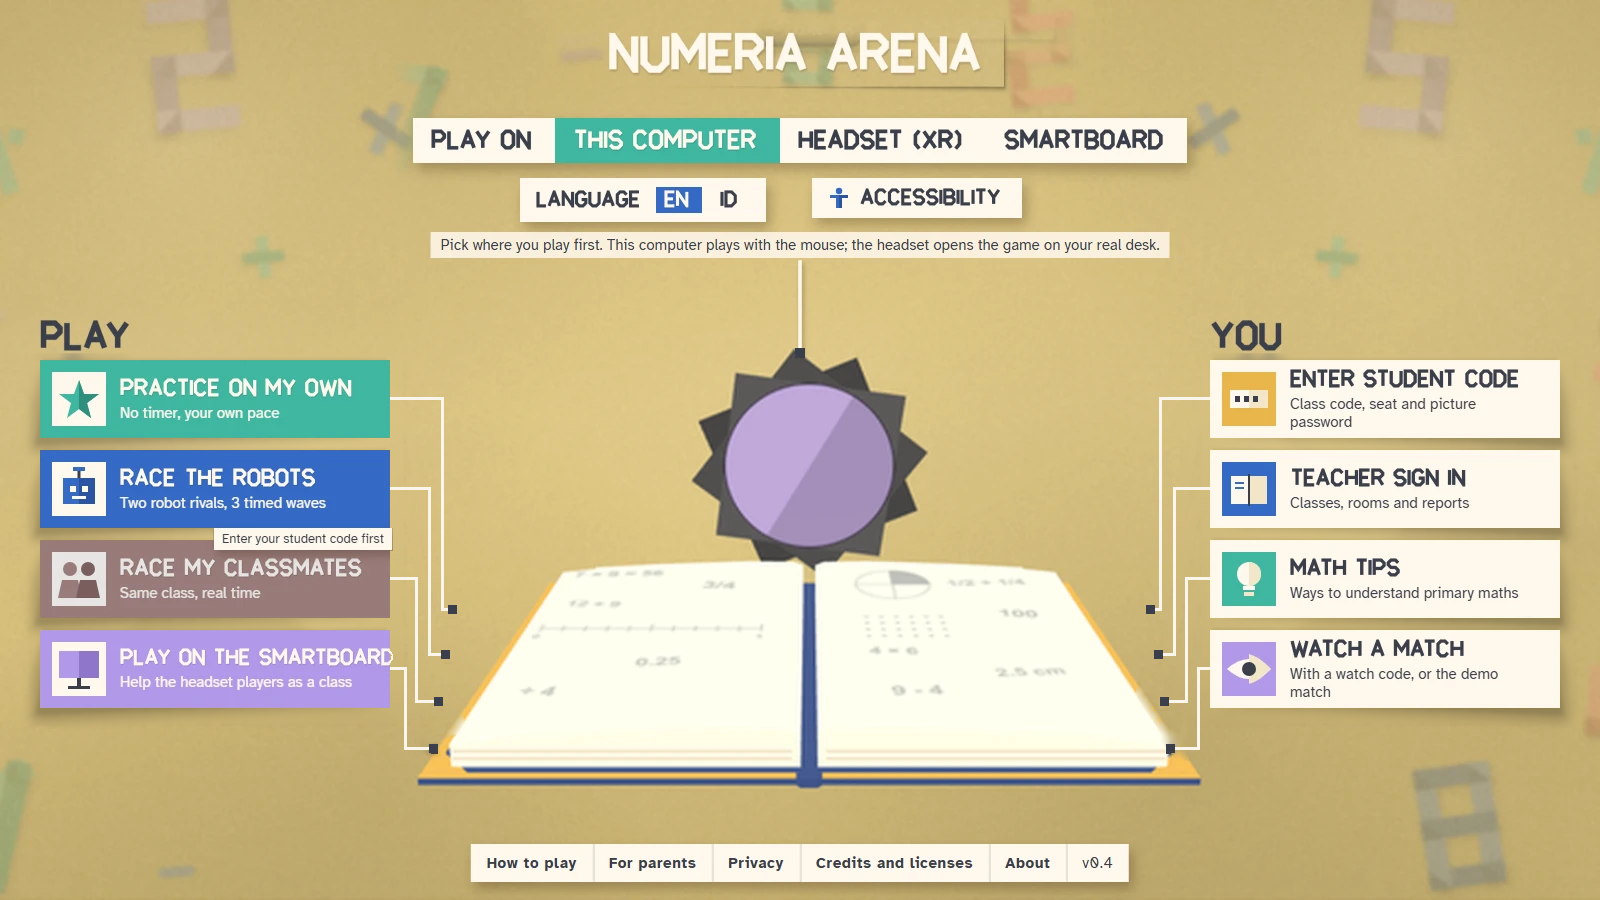
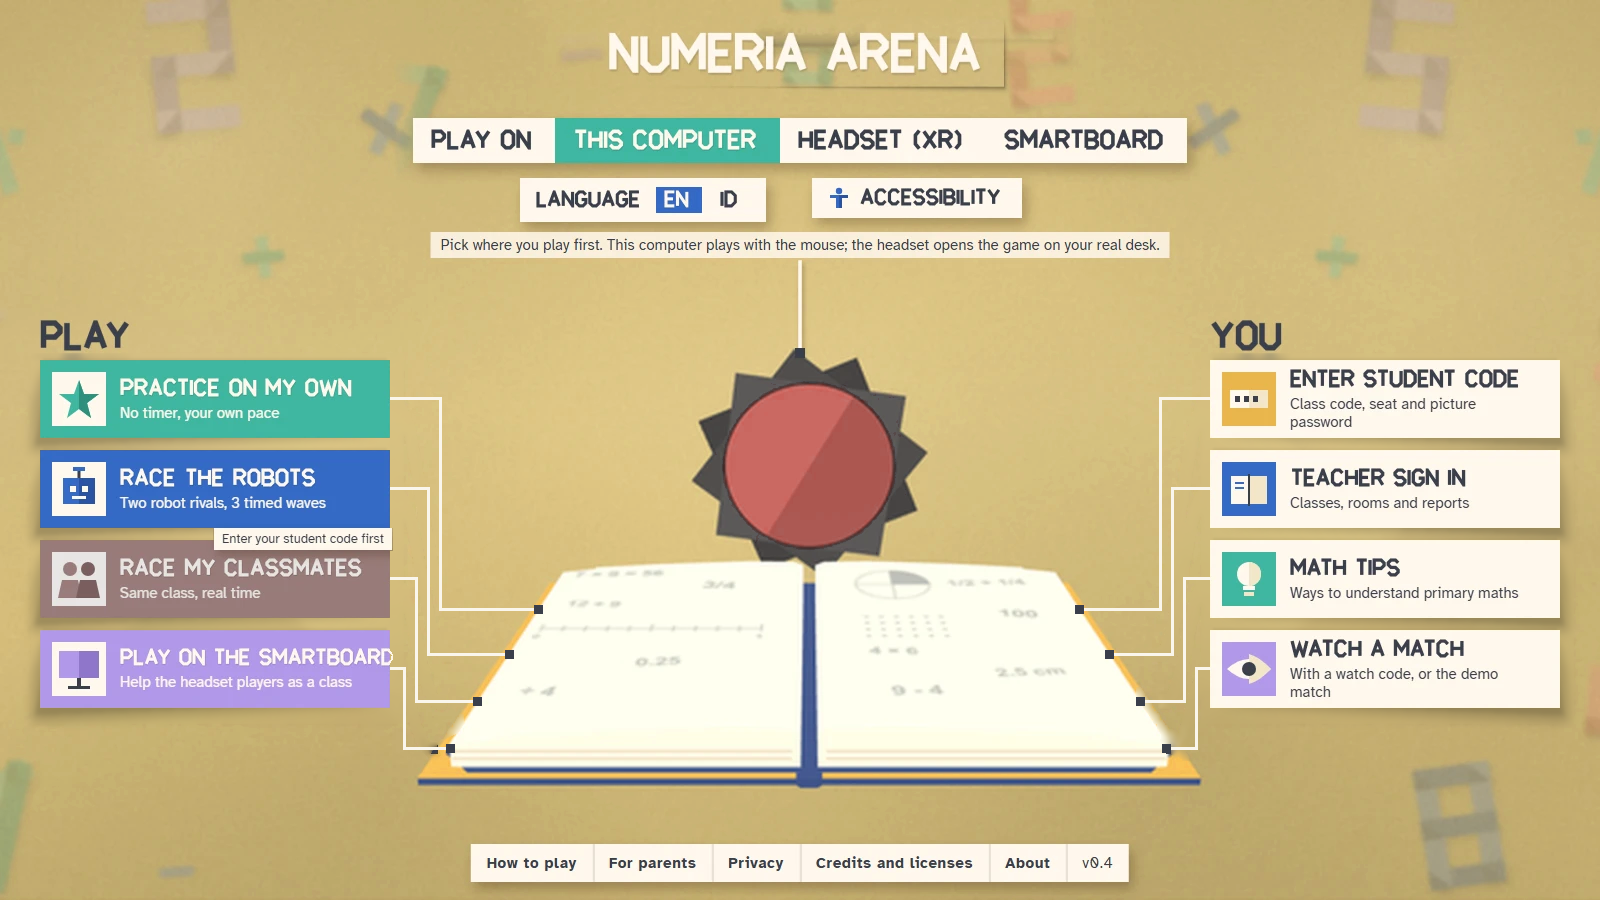
Menu mockup: soft red sun disc, lines run on to the book's page edge
The purple disc in the sun becomes a muted brick red with its two tones kept.
Every connector line now ends on the edge of the book's pages, found on the
cleaned image row by row.

Claude-Session: https://claude.ai/code/session_013EfMjs1ns7kt9VMgsDEbGC

diff --git a/scripts/tools/revise-menu.py b/scripts/tools/revise-menu.py
@@ -1,6 +1,8 @@
 # Revises a screenshot of the Numeria Arena main menu (1600x900):
 #  - the curved connector lines between the PLAY / YOU blocks and the book become straight lines
 #    with right-angle bends (no curves), ending on the same anchor squares at the book;
+#  - the lines run on to the edge of the book's pages and end there on an ink square;
+#  - the purple disc inside the sun turns a soft brick red (not glaring), keeping its two tones;
 #  - the blocks lose their all-round drop shadow and take the global sticker peel effect
 #    (style D, scripts/2d/menu.mjs): one side stays stuck down, the outer side lifts with a soft
 #    tinted shadow, the left side for the left group and the right side for the right group.
@@ -20,12 +22,23 @@ H, W = img.shape[:2]
 TOPS = [360, 450, 540, 630]
 LEFT = [(40, y, 389, y + 77) for y in TOPS]
 RIGHT = [(1210, y, 1559, y + 77) for y in TOPS]
-ANCHOR_L = [(452, 609), (445, 654), (438, 701), (433, 748)]
-ANCHOR_R = [(1150, 609), (1158, 654), (1164, 701), (1170, 748)]
+# heights where the lines meet the book (the old anchor squares); x is found on the page edge below
+ANCHOR_Y = [609, 654, 701, 748]
 TOOLTIP = (213, 528, 392, 550)        # "Enter your student code first", pasted back as it is
 OVERFLOW = (390, 645, 398, 668)       # the D of SMARTBOARD sticks out of its block
 
 orig = img.copy()
+
+
+# sun disc: purple -> soft brick red, same brightness steps so the two halves still read
+hsv = cv2.cvtColor(img, cv2.COLOR_RGB2HSV).astype(float)
+reg = np.zeros((H, W), bool); reg[370:560, 710:910] = True
+purple = reg & (hsv[..., 0] > 118) & (hsv[..., 0] < 165) & (hsv[..., 1] > 12)
+hsv[..., 0][purple] = 2                                            # red, a touch towards orange
+hsv[..., 1][purple] = np.minimum(hsv[..., 1][purple] * 2.3, 140)  # about 0.5 saturation: muted, not glaring
+hsv[..., 2][purple] *= 0.93
+img = cv2.cvtColor(hsv.astype(np.uint8), cv2.COLOR_HSV2RGB)
+orig = np.where(purple[..., None], img, orig)
 blur = cv2.medianBlur(img, 21).astype(int)
 diff = np.abs(img.astype(int) - blur).sum(-1)
 
@@ -47,6 +60,16 @@ mask[book > 0] = 0
 clean = cv2.inpaint(img, mask, 15, cv2.INPAINT_TELEA)
 clean = cv2.GaussianBlur(clean, (0, 0), 1.2) * (mask[..., None] > 0) + clean * (mask[..., None] == 0)
 base = Image.fromarray(clean.astype(np.uint8))
+
+def page_edge(y, x_from, step):
+    # first page pixel (light cream) along row y of the cleaned image, walking towards the book
+    row = np.array(base)[y].astype(int).sum(-1)
+    x = x_from
+    while row[x] <= 690: x += step
+    return x
+ANCHOR_L = [(page_edge(y, 400, 1) - 1, y) for y in ANCHOR_Y]
+ANCHOR_R = [(page_edge(y, 1205, -1) + 1, y) for y in ANCHOR_Y]
+print('anchors', ANCHOR_L, ANCHOR_R)
 
 def shade_of(x0, y0, x1, y1):
     # the background under a block, darkened 42%: the shadow is tinted, never black (menu.mjs)
@@ -88,7 +111,7 @@ def connect(blocks, anchors, side):
     for i, ((x0, y0, x1, y1), (ax, ay)) in enumerate(zip(blocks, anchors)):
         ym = (y0 + y1) // 2
         sx = x1 + 1 if side == 'left' else x0 - 1
-        lane = (ax - 10 - 6 * i) if side == 'left' else (ax + 10 + 6 * i)
+        lane = (440 - 12 * i) if side == 'left' else (1160 + 12 * i)
         pts = [(sx, ym), (lane, ym), (lane, ay), (ax, ay)]
         d.line(pts, fill=LINE, width=3, joint=None)
         for (px, py) in pts[1:3]:
